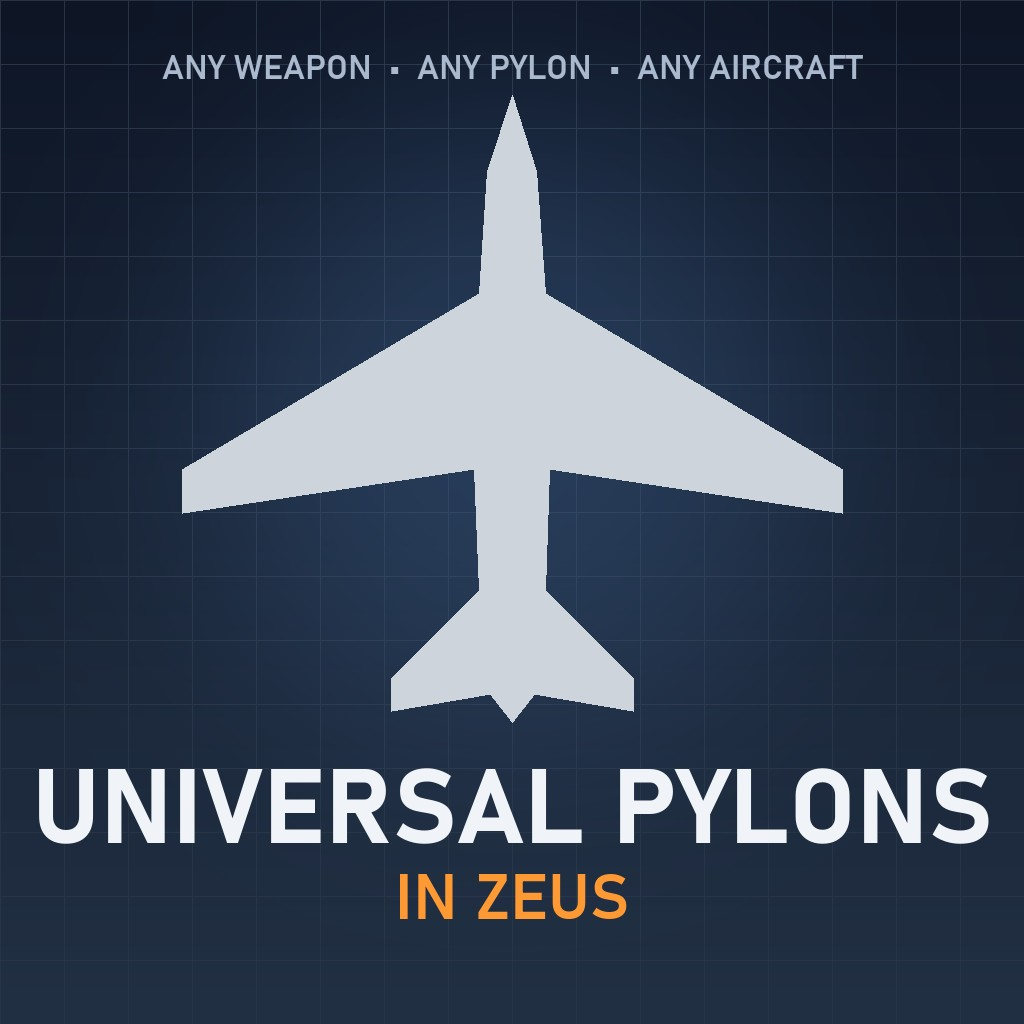
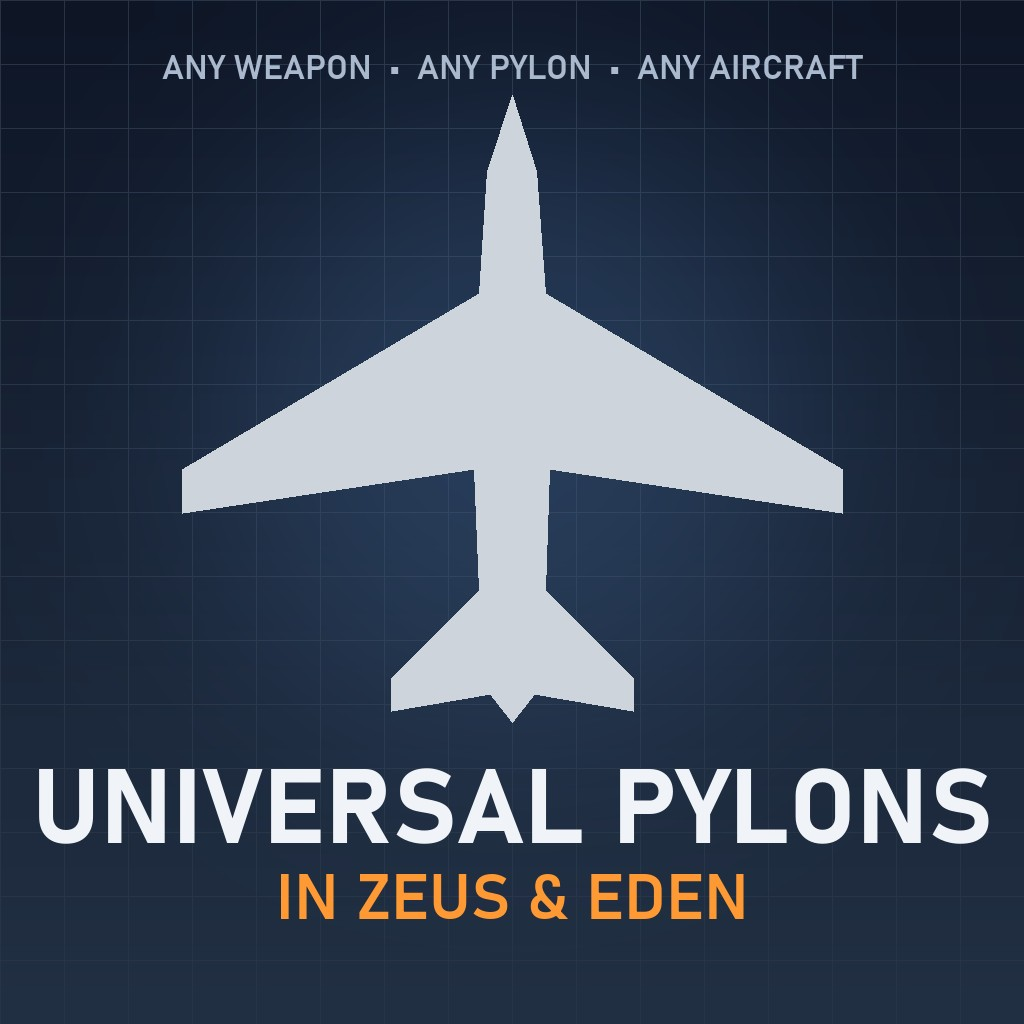
Rename to Universal Pylons (Zeus & Eden), new preview image
Display name only; prefix, PBO and repo name stay upz / UniversalPylonsInZEUS.

Changed region(s): [[0.25, 0.8438, 0.75, 0.9062]]

diff --git a/mod.cpp b/mod.cpp
@@ -1,10 +1,10 @@
-name = "Universal Pylons in ZEUS";
+name = "Universal Pylons (Zeus & Eden)";
 author = "[RTLS] DerTapp";
 picture = "logo_ca.paa";
 logo = "logo_ca.paa";
 logoOver = "logo_ca.paa";
 logoSmall = "logo_ca.paa";
-tooltip = "Universal Pylons in ZEUS";
+tooltip = "Universal Pylons (Zeus & Eden)";
 overview = "Put any pylon weapon on any pylon of any aircraft in the Zeus (ZEN) and Eden pylon menus. Requires CBA and ZEN.";
 action = "https://github.com/CodeTappert/UniversalPylonsInZEUS";
 actionName = "GitHub";

diff --git a/addons/main/config.cpp b/addons/main/config.cpp
@@ -1,6 +1,6 @@
 class CfgPatches {
     class upz_main {
-        name = "Universal Pylons in ZEUS";
+        name = "Universal Pylons (Zeus & Eden)";
         author = "[RTLS] DerTapp";
         units[] = {};
         weapons[] = {};

diff --git a/CHANGELOG.md b/CHANGELOG.md
@@ -6,6 +6,10 @@
 
 - Eden Editor support: the aircraft's Pylons attributes list every pylon weapon (non-native ones in orange). Forced weapons are saved with the mission and applied in the editor and at mission start.
 
+### Changed
+
+- Renamed to "Universal Pylons (Zeus & Eden)"; new Workshop preview image.
+
 ## [1.0.1] - 2026-11-07
 
 ### Added

diff --git a/README.md b/README.md
@@ -1,4 +1,4 @@
-# Universal Pylons in ZEUS
+# Universal Pylons (Zeus & Eden)
 
 An Arma 3 mod that lets you put **any pylon weapon on any pylon of any aircraft**, right in the normal pylon menus of **Zeus** and the **Eden Editor**.
 

diff --git a/.github/workshop/description.md b/.github/workshop/description.md
@@ -1,4 +1,4 @@
-# Universal Pylons in ZEUS
+# Universal Pylons (Zeus & Eden)
 
 Put **any pylon weapon on any pylon of any aircraft**, right in the normal pylon menus of **Zeus** and the **Eden Editor**.
 
